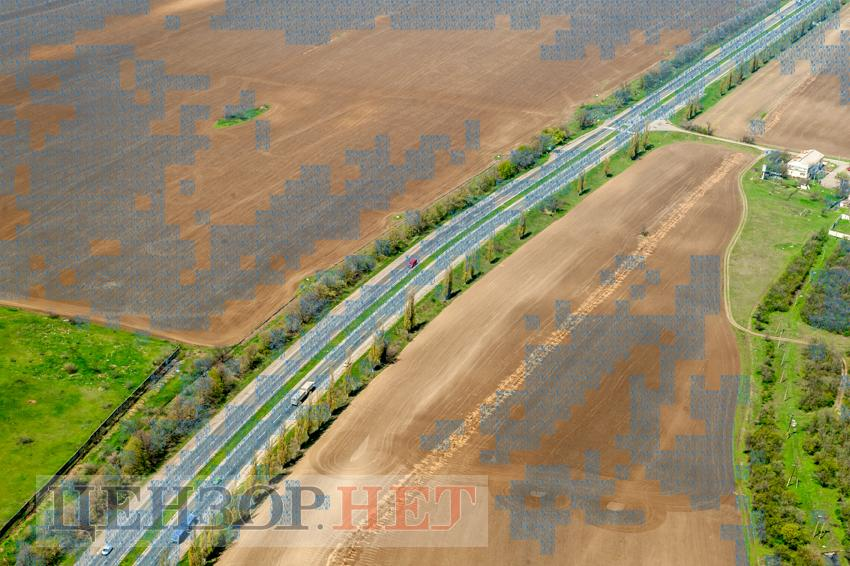
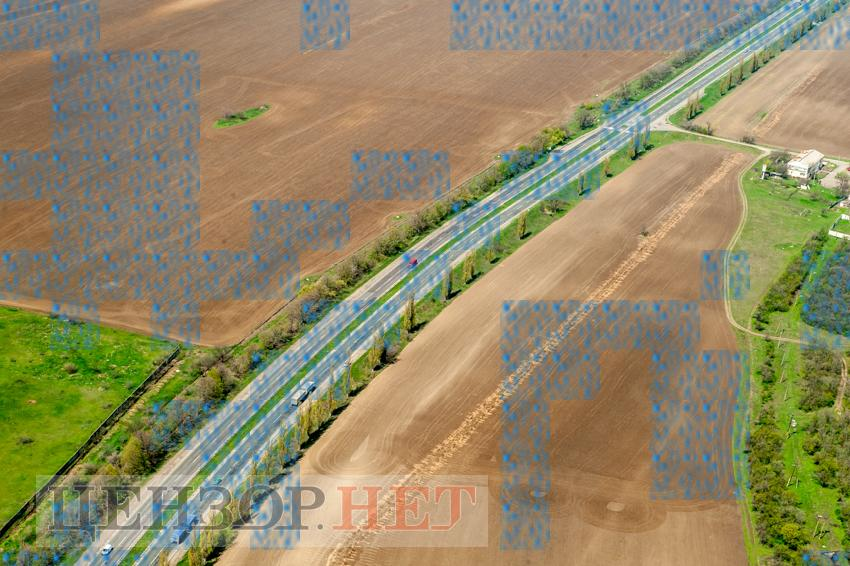
just commit

diff --git a/Dron6.py b/Dron6.py
@@ -24,7 +24,6 @@ def imposition(img1,img2):
     im1 = img1
     im2 = img2
     im1.paste(im2, (j,i), im2) # Последний параметр — альфаканал, используемый для наложения
-    im1.save("img1.png")
 
 def get_main_color(img):
     colors = img.getcolors(25600) #put a higher value if there are many colors in your image
@@ -40,7 +39,7 @@ img=Image.open("Photo.jpg")
 imgwidth, imgheight = img.size
 #img.crop((30, 30, w-80, h-40)).save("file.png")
 amount = 1;
-width, length = 15, 15
+width, length = 50, 50
 img2 = Image.open("kapli.png")
 img2 = img2.resize((width,length), Image.ANTIALIAS)
 img2.save("kaphotosavepli.png")
